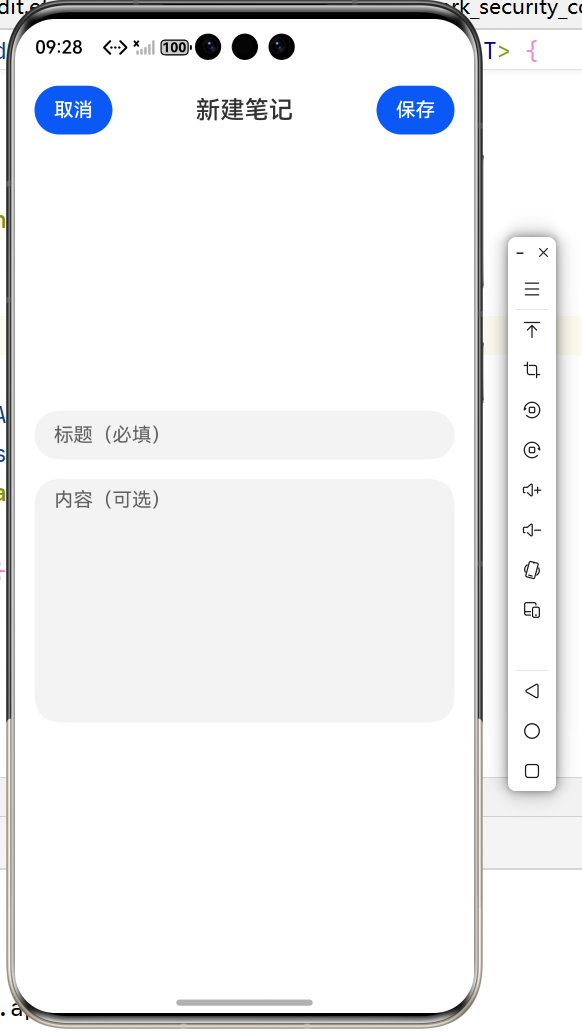
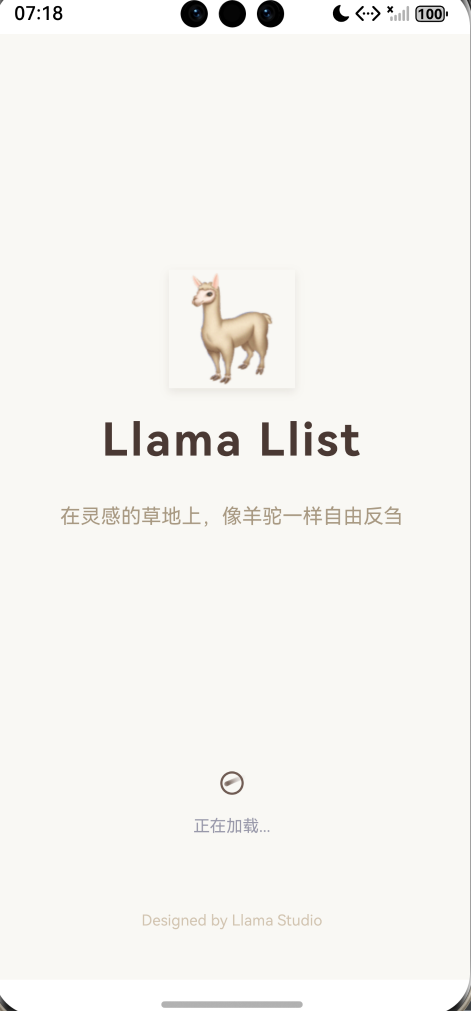
readme -v2

diff --git a/README.md b/README.md
@@ -1,22 +1,10 @@
-- [🦙 Llama Llist – 灵感笔记与待办清单](#-llama-llist--灵感笔记与待办清单)
-  - [📚 技术栈](#-技术栈)
-  - [✅ 本次完成内容（核心功能）](#-本次完成内容核心功能)
-  - [📁 目录结构](#-目录结构)
-  - [🚀 启动指南](#-启动指南)
-    - [后端启动](#后端启动)
-    - [前端启动](#前端启动)
-  - [API 接口概览](#api-接口概览)
-  - [前端 BASE\_URL 配置](#前端-base_url-配置)
-  - [📌 数据库现状与待完善之处](#-数据库现状与待完善之处)
-  - [🤖 为第三次作业预留的 AI 扩展点](#-为第三次作业预留的-ai-扩展点)
-
-
+[TOC]
 
 # 🦙 Llama Llist – 灵感笔记与待办清单
 
 > 一个集笔记记录与任务管理于一体的效率工具。支持多模态笔记、标签分类、待办状态机、搜索筛选，并为后续 AI 功能预留扩展点。
 
-## 📚 技术栈
+## 一、技术栈
 
 | 层级 | 技术 |
 |------|------|
@@ -26,7 +14,7 @@
 | 通信 | HTTP + JSON (RESTful API) |
 | 文档 | FastAPI 自动生成 OpenAPI (Swagger) |
 
-## ✅ 目前完成的功能
+## 二、目前完成的功能
 
 1. **多模态笔记**
    - 支持文字标题、长文内容
@@ -45,68 +33,65 @@
    - 改变了截止日期选择方式，并增加了根据时间确定是已延期还是待处理
    - 增加了紧急程度选择 `紧急重要` `紧急不重要` `不紧急重要` `不紧急不重要`，对应给了四个颜色
    - 增加了卡片快速更换状态和紧急程度变化 ，增加了状态根据时间动态自动更新
-   - 
 4. **搜索功能**
    - 支持按关键字（标题/内容）搜索笔记
    - 支持按日期范围（`created_from`～`created_to`）与标签筛选
    - 改变了日期选择方式，增加了首页快速搜索
-   同时完成关键测试点：
-- **标题为空时保存校验拦截**：前端保存前校验 + 后端二次校验（新建/更新均校验）。
-
-## 📁 目录结构
+   同时完成关键测试点：标题为空时保存校验拦截：前端保存前校验 + 后端二次校验（新建/更新均校验）。
+## 三、目录结构
 ```
 llama-llist/
 ├── frontend/                                 # HarmonyOS 工程（用 DevEco Studio 打开）
 │   └── entry/src/main/ets/
 │       ├── pages/                            # 页面
-│       │   ├── Index.ets                     # 笔记列表页 ✅
-│       │   ├── NoteEdit.ets                  # 新增/编辑笔记页 ✅
-│       │   ├── TagManage.ets                 # 标签管理页 ✅
-│       │   ├── TodoBoard.ets                 # 待办看板页 ✅
-│       │   ├── SearchPage.ets                # 搜索筛选页 ✅
+│       │   ├── Index.ets                     # 笔记列表页 
+│       │   ├── NoteEdit.ets                  # 新增/编辑笔记页 
+│       │   ├── TagManage.ets                 # 标签管理页 
+│       │   ├── TodoBoard.ets                 # 待办看板页
+│       │   ├── SearchPage.ets                # 搜索筛选页 
 |       |   └── SplashPage.ets                # 欢迎页
 │       ├── common/                           # 公共模块
 │       │   ├── network/
-│       │   │   └── httpClient.ets            # HTTP 请求封装 ✅
+│       │   │   └── httpClient.ets            # HTTP 请求封装 
 │       │   ├── constants/
-│       │   │   └── Config.ets                # 全局配置（BASE_URL等）✅
+│       │   │   └── Config.ets                # 全局配置（BASE_URL等）
 │       │   └── utils/                        # 工具函数（日期格式化等）⏳
 │       ├── models/                           # 数据模型
-│       │   ├── Note.ets                      # 笔记模型 ✅
-│       │   ├── Tag.ets                       # 标签模型 ✅
-│       │   └── Todo.ets                      # 待办模型 ✅
+│       │   ├── Note.ets                      # 笔记模型 
+│       │   ├── Tag.ets                       # 标签模型 
+│       │   └── Todo.ets                      # 待办模型 
 │       └── database/                         # 本地数据库（本次作业未使用，为后续预留）
 ├── backend/                                  # Python 后端
 │   ├── app/
 │   │   ├── __init__.py
-│   │   ├── main.py                           # FastAPI 入口（含 CORS、日志中间件）✅
-│   │   ├── database.py                       # 数据库连接（异步 SQLite）✅
-│   │   ├── models.py                         # SQLAlchemy 模型（Note, Tag, Todo）✅
-│   │   ├── schemas.py                        # Pydantic 模型（Note, Tag, Todo）✅
-│   │   ├── crud.py                           # 数据库操作（Note/Tag/Todo CRUD）✅
+│   │   ├── main.py                           # FastAPI 入口（含 CORS、日志中间件
+│   │   ├── database.py                       # 数据库连接（异步 SQLite）
+│   │   ├── models.py                         # SQLAlchemy 模型（Note, Tag, Todo）
+│   │   ├── schemas.py                        # Pydantic 模型（Note, Tag, Todo）
+│   │   ├── crud.py                           # 数据库操作（Note/Tag/Todo CRUD）
 │   │   └── routers/                          # 路由模块
 │   │       ├── __init__.py
-│   │       ├── notes.py                      # 笔记相关 API ✅
-│   │       ├── tags.py                       # 标签相关 API ✅
-│   │       ├── todos.py                      # 待办相关 API ✅
+│   │       ├── notes.py                      # 笔记相关 API 
+│   │       ├── tags.py                       # 标签相关 API 
+│   │       ├── todos.py                      # 待办相关 API 
 |   |       ├── templates.py                  # 模板相关 API
-│   │       └── files.py                      # 图片上传 API ✅
+│   │       └── files.py                      # 图片上传 API 
 │   ├── uploads/                              # 用户上传图片目录（自动生成）
 │   ├── notes.db                              # SQLite 数据库文件（自动生成）
-│   ├── requirements.txt                      # Python 依赖 ✅
+│   ├── requirements.txt                      # Python 依赖 
 │   ├── .env                                  # 环境变量（可选，不提交）
 │   └── config.py                             # 配置管理（可选，已规划）
 ├── docs/                                     # 文档
 │   ├── API.md                                # 接口文档（待补充）
 │   └── architecture.png                      # 架构图（待补充）
-├── .gitignore                                # Git 忽略规则 ✅
-└── README.md                                 # 项目说明 ✅
+├── .gitignore                                # Git 忽略规则 
+└── README.md                                 # 项目说明 
 ```
 
 
-## 🚀 启动指南
+## 四、启动指南
 
-### 后端启动
+### 1. 后端启动
 
 ![alt text](image.png)
 
@@ -132,9 +117,7 @@ llama-llist/
    ```bash
    uvicorn app.main:app --reload --host 0.0.0.0 --port 8000 --log-level warning
 
-### 前端启动
-
-![alt text](image-1.png)
+### 2. 前端启动
 
 
 1. **使用 DevEco Studio 打开项目**  
@@ -142,27 +125,37 @@ llama-llist/
 
 
 2. **配置 hdc 环境变量（用于端口转发或设备连接）**  
-- ！请确保安装了**OpenHarmony SDK**
-  
-   ![alt text](image-3.png)
-   - 找到 HarmonyOS SDK 安装目录下的 `toolchains` 文件夹（默认 `C:\Users\你的用户名\AppData\Local\Huawei\Sdk\openharmony\20\toolchains`）。  
-   - 将该路径添加到系统 `PATH` 环境变量中，或者在使用 `hdc` 命令时使用绝对路径。  
-   - 验证配置：打开新终端，输入 `hdc list targets`，应显示已连接的设备（模拟器或真机）。
+- 请确保安装了**OpenHarmony SDK**
+
+<img src="image-1.png" alt="alt text" />
+
+- 找到 HarmonyOS SDK 安装目录下的 `toolchains` 文件夹（默认 `C:\Users\你的用户名\AppData\Local\Huawei\Sdk\openharmony\20\toolchains`）。  
+- 将该路径添加到系统 `PATH` 环境变量中，或者在使用 `hdc` 命令时使用绝对路径。  
+- 验证配置：打开新终端，输入 `hdc list targets`，应显示已连接的设备（模拟器或真机）。
 
 3. **运行应用**  
    - 连接真机或启动模拟器（推荐 API 12+）。  
    - 点击 DevEco Studio 的运行按钮，等待安装并启动。
 
-<img src="image-2.png" alt="alt text" width="30%">
-
-## 页面设计
-### 欢迎页
+## 五、页面设计
+### 1. 欢迎页
 持续一段时间后进入主页
-### Llama Meadow 草原---笔记区
+
+<img src="image-2.png" alt="alt text" width="30%" />
+
+### 2. Llama Meadow 草原---笔记区
+
+<img src="image-3.png" alt="alt text" width="30%" />
+
 标题和标语    搜索键
 标签呈现【左右滑动，最后是新增/管理标签快捷键】
+
+<img src="image-9.png" alt="alt text" width="30%" />
+
 笔记呈现【上下滑切换笔记，左滑出现删除键】
 右下角新建笔记
+
+<img src="image-4.png" alt="alt text" width="30%" />
 
 ---
 
@@ -170,18 +163,26 @@ llama-llist/
 返回 确认键
 从上到下依次为：标题、摘要、标签、正文、文字输入功能区【模板放在该栏最后，使用时弹出小框】、笔记功能区【照片、清空和保存】
 
-### Llama Peak   山峰---任务区
+<img src="image-5.png" alt="alt text" width="30%" /><img src="image-6.png" alt="alt text" width="30%" /><img src="image-8.png" alt="alt text" width="30%" />
+
+
+
+### 3. Llama Peak   山峰---任务区
 
 标题和标语 
 双层选择【状态和优先级】
 任务卡片
 右下角新建待办
 
+<img src="image-10.png" alt="alt text" width="30%" /><img src="image-11.png" alt="alt text" width="30%" /><img src="image-12.png" alt="alt text" width="30%" />
+
+
+
 ---
 
 从上到下依次为：标题、截止日期、重要紧急程度设置、确认
 
-### Llama Pack   行囊---管理区
+### 4. Llama Pack   行囊---管理区
 
 标题和标语
 标签管理
@@ -189,8 +190,10 @@ llama-llist/
 主题装扮【待实现】
 设置中心【待实现】
 
+<img src="image-13.png" alt="alt text" width="30%" />
 
-## API 接口概览
+
+## 六、API 接口概览
 
 | 方法   | 路径            | 说明                     | 状态码 |
 |--------|----------------|--------------------------|--------|
@@ -212,17 +215,18 @@ llama-llist/
 
 > 详细请求/响应格式请访问 `http://localhost:8000/docs`（后端启动后）
 
-## 前端 BASE_URL 配置
+## 七、前端 BASE_URL 配置
 - 统一在 common/constants/Config.ets 中修改 BASE_URL
-- 我使用的是虚拟网络，BASE_URL 固定为 http://10.0.2.2:8000，不需要修改
+- 使用的是虚拟网络，BASE_URL 固定为 http://10.0.2.2:8000，不需要修改
 
-## 📌 数据库现状与待完善之处
+## 八、数据库现状与待完善之处
 
 当前 `models.py` 已包含以下表：
 
-- `notes`：笔记主表（标题、内容、图片路径、时间戳、标签外键、预留的 `embedding` 向量字段）
+- `notes`：笔记主表（标题、概要、内容、图片路径、时间戳、标签外键、预留的 `embedding` 向量字段）
 - `tags`：标签表（名称唯一）
-- `todos`：待办表（标题、状态、截止日期、关联笔记 ID）
+- `todos`：待办表（标题、状态、截止日期、关联笔记 ID、紧急程度）
+- `template`：模板（编号、名字、内容框架、图标等）
 
 **已满足的功能**：笔记 CRUD（含搜索筛选）、标签管理、待办状态机（含筛选）。  
 **后续可完善的方向**：
@@ -235,11 +239,7 @@ llama-llist/
 | **图片存储** | `image_paths` 存储逗号分隔路径，建议改为一对多关联表，支持更灵活的图片管理 |
 | **数据库迁移** | 目前使用 `Base.metadata.create_all`，生产环境建议引入 `Alembic` 进行版本化迁移 |
 
----
-
-
-
-## 🤖 为第三次作业预留的 AI 扩展点
+## 注：为第三次作业预留的 AI 扩展点
 
 - **数据库层**：`Note` 模型已预留 `embedding` 字段（Text 类型），用于存储向量，便于实现语义搜索。
 - **后端接口**：计划新增 `/ai/summarize`（笔记摘要）、`/ai/classify`（智能标签）、`/ai/priority`（任务优先级推荐）等端点，当前可返回 Mock 数据。